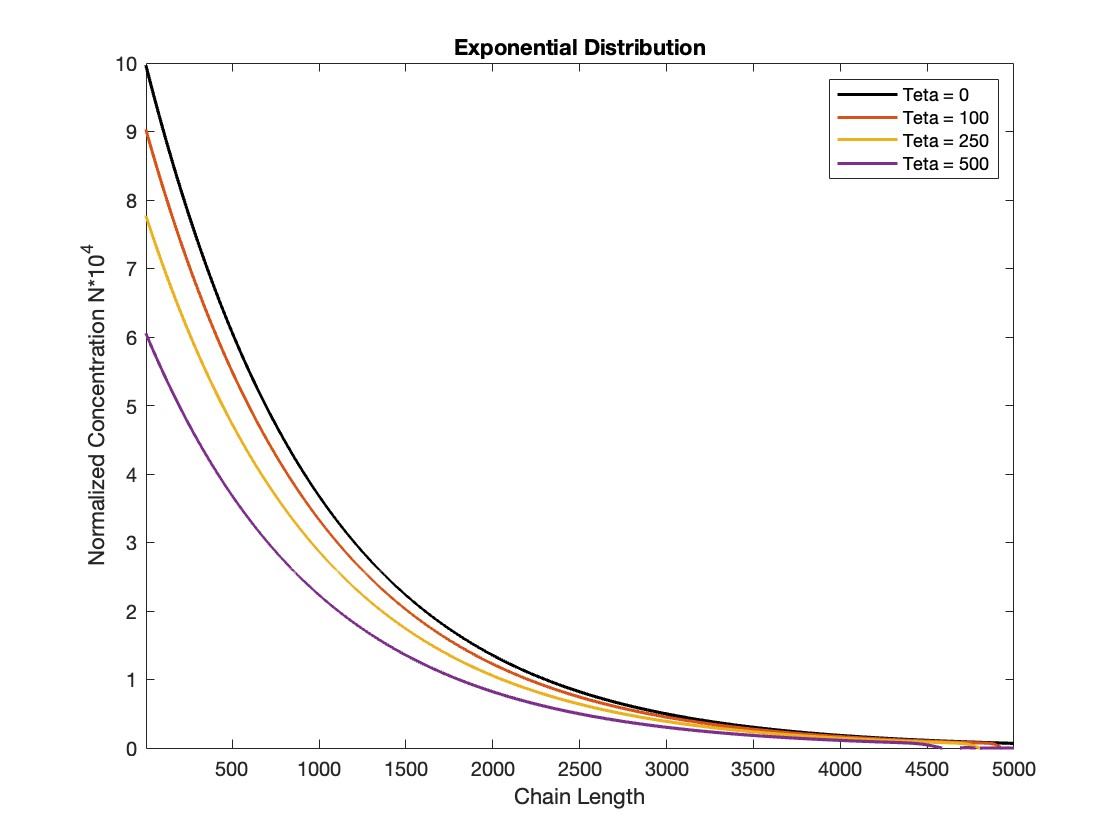
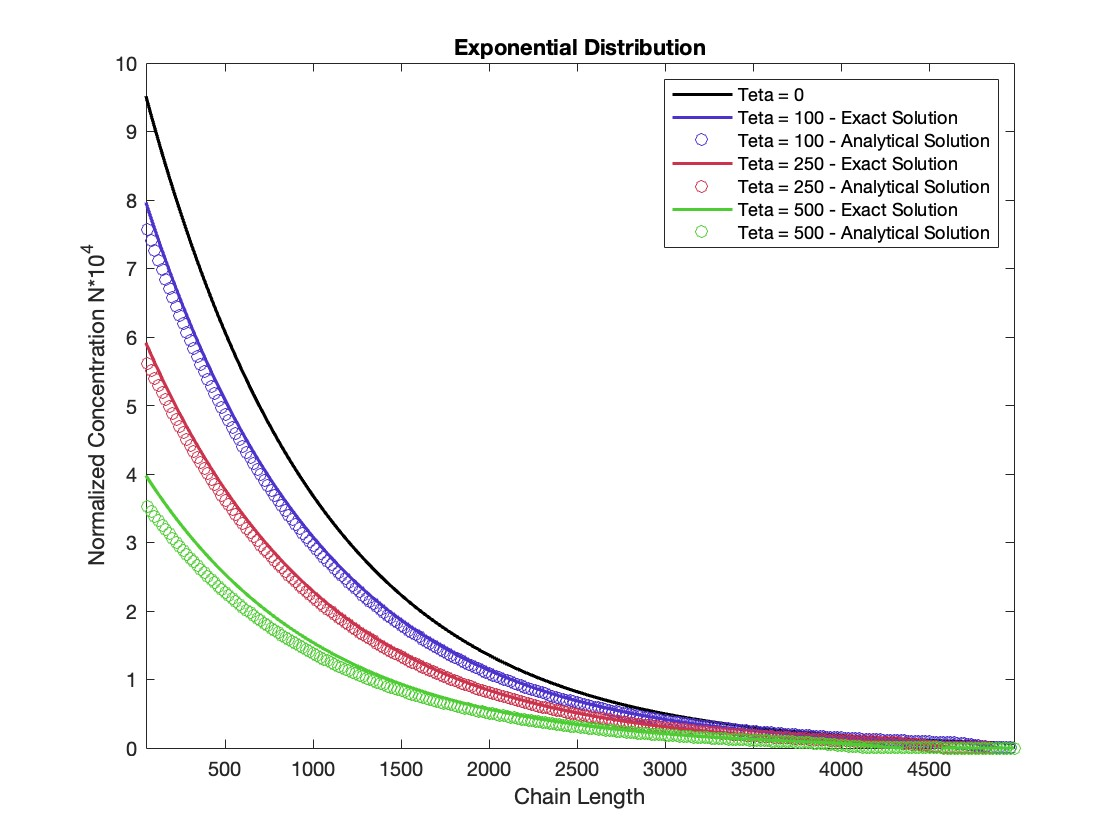
Add files via upload

diff --git a/PBE_esponenziale.m b/PBE_esponenziale.m
@@ -9,8 +9,8 @@ clc
 global N
 
 kd = 1/200; %[1/s]
-N = 5000;
-chain_length = 1:5000;
+chain_length = 1:20:5000;
+N = length(chain_length);
 xn = 1000;
 
 %Exponential distribution
@@ -18,52 +18,77 @@ xn = 1000;
 b = 1/xn;
 P0 = b.*exp(-b.*chain_length);
 
-tetaspan = 0:1:500; %[s]
+tetaspan = 0.01:1:500; %[s]
 
 %% Resolution
 
-[teta,P] = ode15s(@PBE, tetaspan, P0);
+[teta, P] = ode15s(@PBE, tetaspan, P0);
+
+% Analytical solution
+
+k = 50; 
+teta_1 = 0.01:1:500;
+Pn_total = zeros(length(teta_1), N+1);
+for t = 1:length(teta_1)
+    Pn_final = zeros(1, N+1); 
+    for n = 2:N
+        Pn_it = 0;
+        for i = n:N
+            Pn_old = Pn_it;
+            if i < n + k + 1
+                Pn_in = P0(i) * (teta_1(t))^(i-n) / factorial(i-n) * exp(-teta_1(t));
+                Pn_it = Pn_in + Pn_old;
+            else
+                Pn_in = P0(i) / sqrt(2*pi*teta_1(t)) * exp(-(i-n-teta_1(t))^2 / (2*teta_1(t)));
+                Pn_it = Pn_in + Pn_old;
+            end
+        end
+        Pn_final(n) = Pn_it;
+    end
+    Pn_total(t, :) = Pn_final;
+end
+
+Pn_matrix = Pn_total(:, 2:end);
 
 %% Plots
 
 figure(1)
 
-plot(chain_length, P0.*1e4, 'LineWidth',1.6, 'Color','black')
+plot(chain_length, P0 .* 1e4, 'LineWidth',1.6, 'Color','black')
 hold on
-plot(chain_length, P(100,:).*1e4, 'LineWidth',1.6)
-plot(chain_length, P(250,:).*1e4, 'LineWidth',1.6)
-plot(chain_length, P(500,:).*1e4, 'LineWidth',1.6)
-axis([4 5000 0 10])
-legend('Teta = 0', 'Teta = 100','Teta = 250','Teta = 500')
+plot(chain_length, P(10,:) .* 1e4, 'LineWidth',1.6, 'Color','[0.3 0.2 0.8]')
+plot(chain_length, Pn_matrix(11,:) .* 1e4, "o", 'Color','[0.3 0.2 0.8]')
+
+plot(chain_length, P(25,:) .* 1e4, 'LineWidth',1.6, 'Color','[0.8 0.2 0.3]')
+plot(chain_length, Pn_matrix(26,:) .* 1e4, "o", 'Color', '[0.8 0.2 0.3]')
+
+plot(chain_length, P(45,:) .* 1e4, 'LineWidth',1.6, 'Color','[0.3 0.8 0.2]')
+plot(chain_length, Pn_matrix(50,:) .* 1e4, "o", 'Color','[0.3 0.8 0.2]')
+
+axis([50 max(chain_length) 0 10]) 
+legend('Teta = 0', 'Teta = 100 - Exact Solution', 'Teta = 100 - Analytical Solution', 'Teta = 250 - Exact Solution', 'Teta = 250 - Analytical Solution', 'Teta = 500 - Exact Solution', 'Teta = 500 - Analytical Solution')
 title('Exponential Distribution')
 xlabel('Chain Length')
 ylabel('Normalized Concentration N*10^4')
 
 %% Function
 
-function dPdteta = PBE(teta,P)
+function dPdteta = PBE(teta, P)
 
-global N
+    global N
 
-%Initialisation
+    % Inizializza dPdteta
+    dPdteta = zeros(N,1);
 
-dPdteta = zeros(N,1);
+    % PBEs
+    for i = 3:N
+        dPdteta(1) = sum(P(i)) + 2 * P(2);
+    end
 
-%PBEs
+    for n = 2:N-1
+        dPdteta(n) = P(n+1) - P(n);
+    end
 
-for i = 3 : N
-
-dPdteta(1) = sum(P(i)) + 2*P(2);
-
-end
-
-for n = 2 : N-1
-
-dPdteta(n) = P(n+1) - P(n);
+    dPdteta(N) = -P(N);
 
 end
-
-dPdteta(N) = -P(N);
-
-end
-
